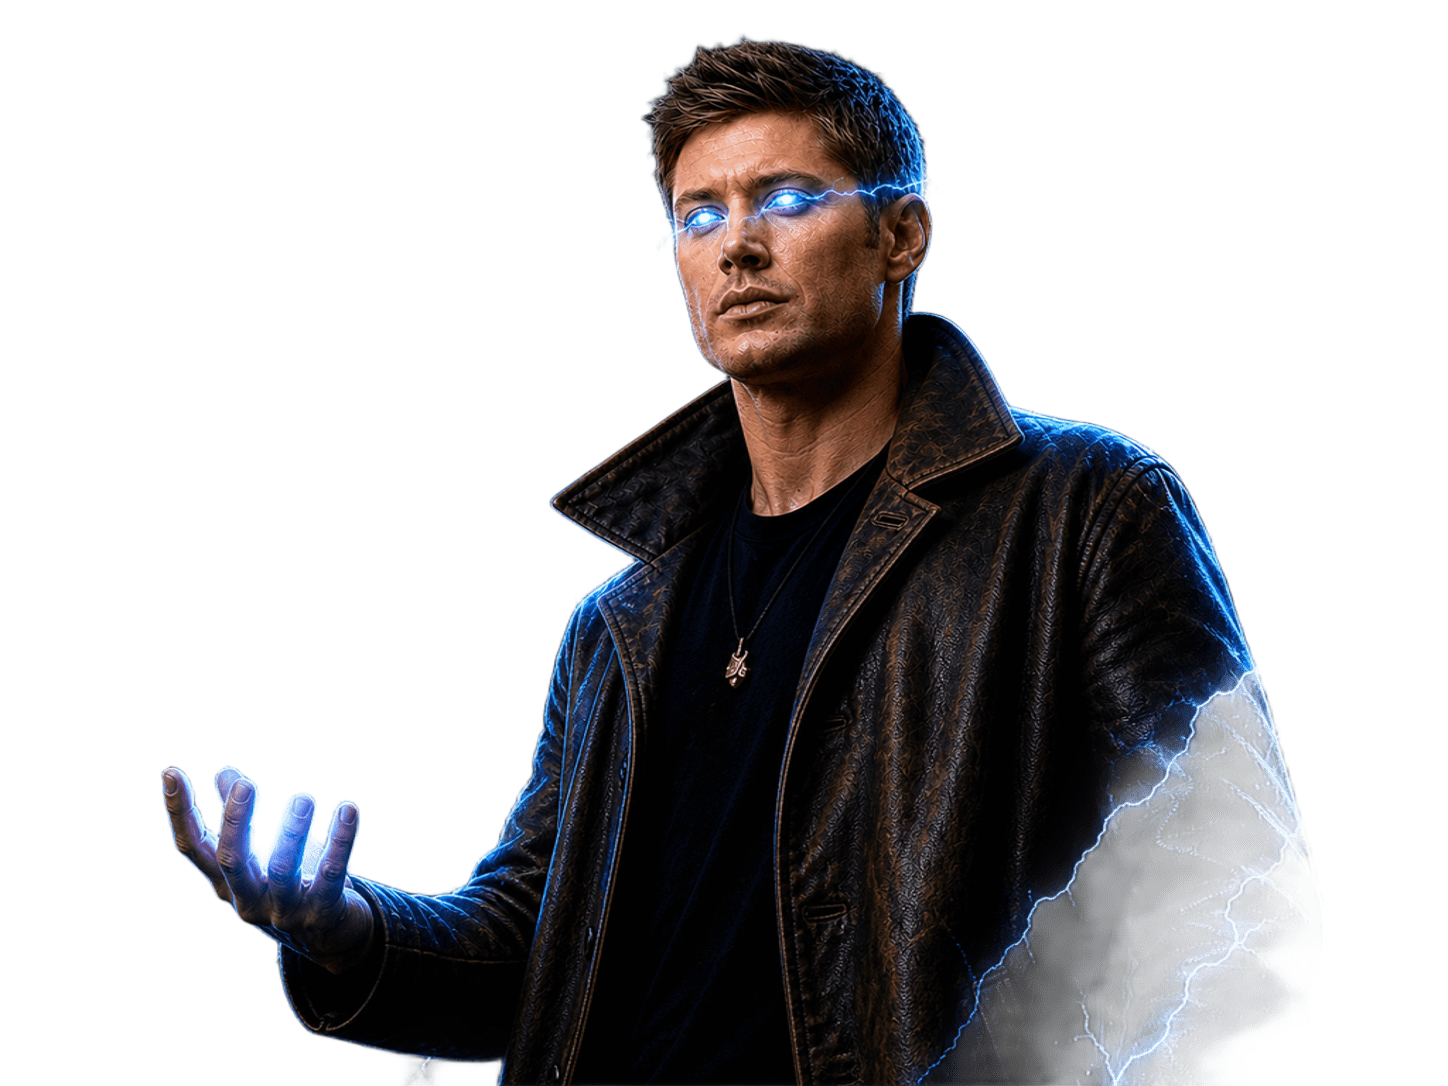
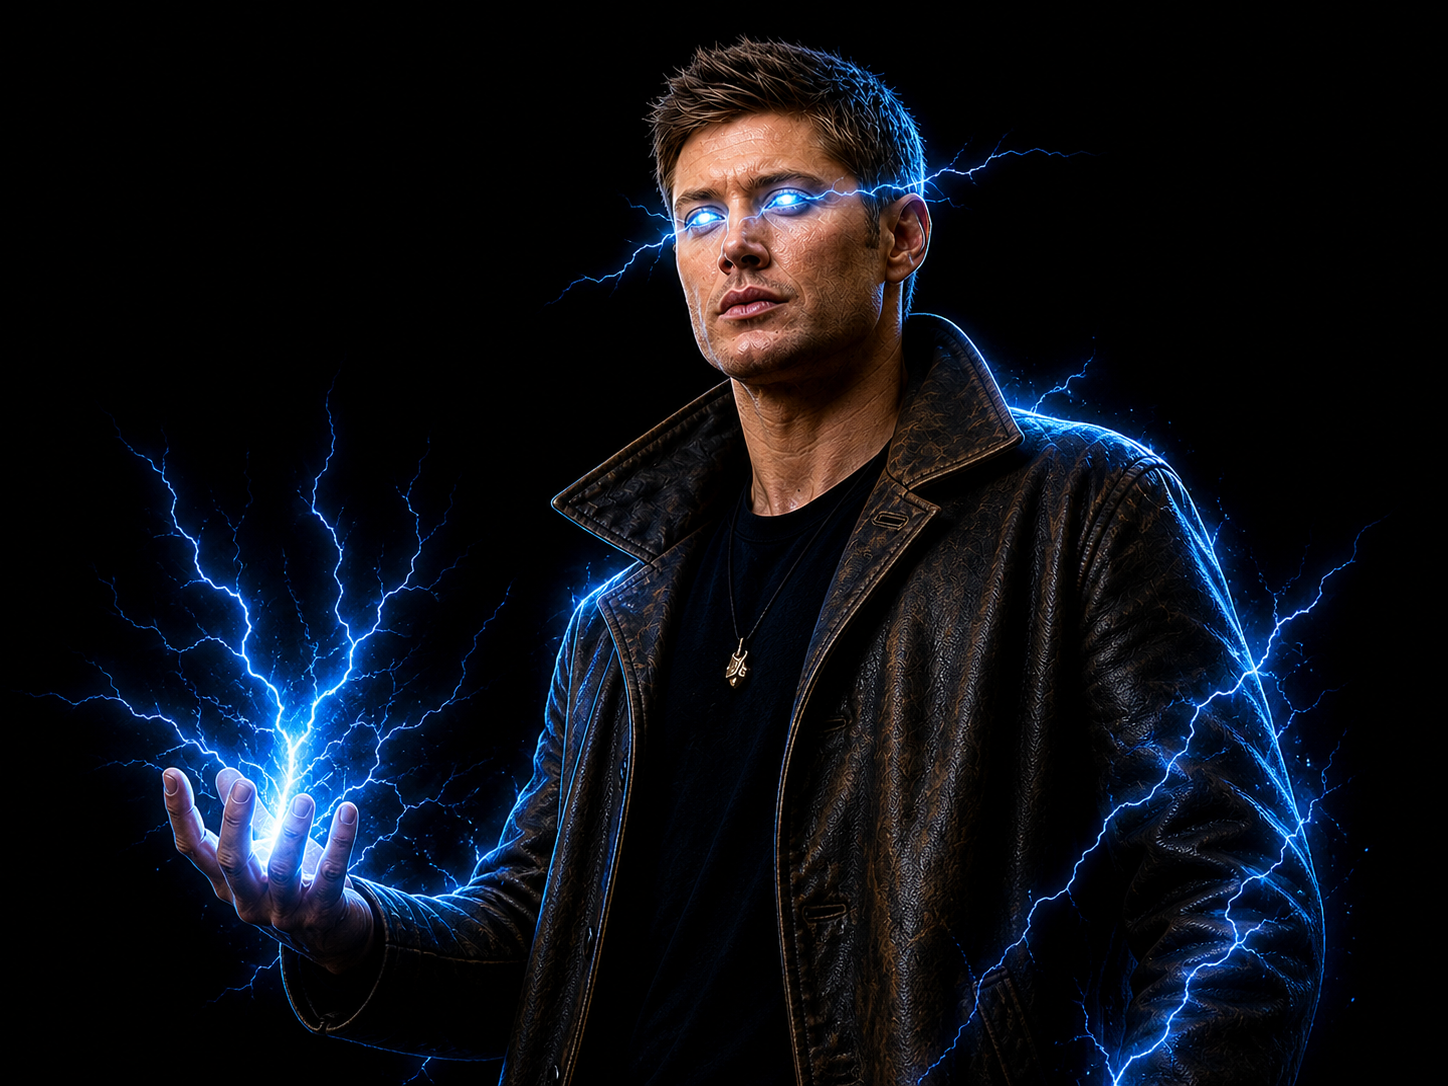
Add images to triagens

diff --git a/apps/System-Olympo/src/data/triageImages.js b/apps/System-Olympo/src/data/triageImages.js
@@ -2,21 +2,22 @@ const TRIAGE_IMAGES = {
   GUERREIRO: {
     TATICO: '/triagens/Guerreiro-Tatico.png',
     TÁTICO: '/triagens/Guerreiro-Tatico.png',
-    LUTADOR: null,
+    LUTADOR: '/triagens/Guerreiro-Lutador.png',
     TANK: '/triagens/Guerreiro-Tank.png',
     SOLDADO: '/triagens/Guerreiro-Soldado.png',
-    ASSASSINO: null,
+    ASSASSINO: '/triagens/Operativo-Assassino.png',
   },
   OPERATIVO: {
-    INFILTRADO: null,
+    ASSASSINO: '/triagens/Operativo-Assassino.png',
+    INFILTRADO: '/triagens/Operativo-Infiltrado.png',
     ATIRADOR: '/triagens/Operativo-Atirador.png',
     TECNICO: '/triagens/Operativo-Tecnico.png',
     TÉCNICO: '/triagens/Operativo-Tecnico.png',
   },
   MISTICO: {
-    COMBATE: null,
-    SUPORTE: null,
-    INTUITIVO: null,
+    COMBATE: '/triagens/Mistico-Combate.png',
+    SUPORTE: '/triagens/Mistico-Suporte.png',
+    INTUITIVO: '/triagens/Mistico-Intuitivo.png',
     GRADUADO: '/triagens/Mistico-Graduado.png',
   },
 }

diff --git a/apps/System-Olympo/src/components/steps/Step8Triages.jsx b/apps/System-Olympo/src/components/steps/Step8Triages.jsx
@@ -91,7 +91,10 @@ export default function Step8Triages({ char, update, updateNested }) {
                         ? `${classColor.selected}`
                         : `${classColor.border} hover:${classColor.selected}`
                     }`}
-                    style={isSelected ? { boxShadow: `0 0 16px ${classColor.glow}` } : undefined}
+                    style={{
+                      ...(isSelected ? { boxShadow: `0 0 16px ${classColor.glow}` } : {}),
+                      '--triage-img': getTriagemImage(classe, key) ? `url(${getTriagemImage(classe, key)})` : undefined,
+                    }}
                   >
                     {getTriagemImage(classe, key) && (
                       <div className="relative h-32 -mx-4 -mt-4 mb-3 overflow-hidden rounded-t">

diff --git a/apps/System-Olympo/src/index.css b/apps/System-Olympo/src/index.css
@@ -3362,10 +3362,9 @@ body {
   opacity: 0;
   transform: translateX(28px) scale(0.96);
   transition: opacity 220ms ease, transform 300ms ease;
-  background:
-    linear-gradient(180deg, transparent 0 12%, rgba(255,255,255,0.06) 12% 16%, transparent 16% 22%),
-    radial-gradient(ellipse at 50% 18%, rgba(255,255,255,0.18), transparent 18%),
-    linear-gradient(165deg, rgba(245,200,76,0.2), transparent 58%);
+  background-image: var(--triage-img);
+  background-size: cover;
+  background-position: center;
   clip-path: polygon(44% 0, 64% 8%, 70% 26%, 61% 43%, 78% 100%, 18% 100%, 35% 43%, 27% 26%, 32% 8%);
   pointer-events: none;
 }
